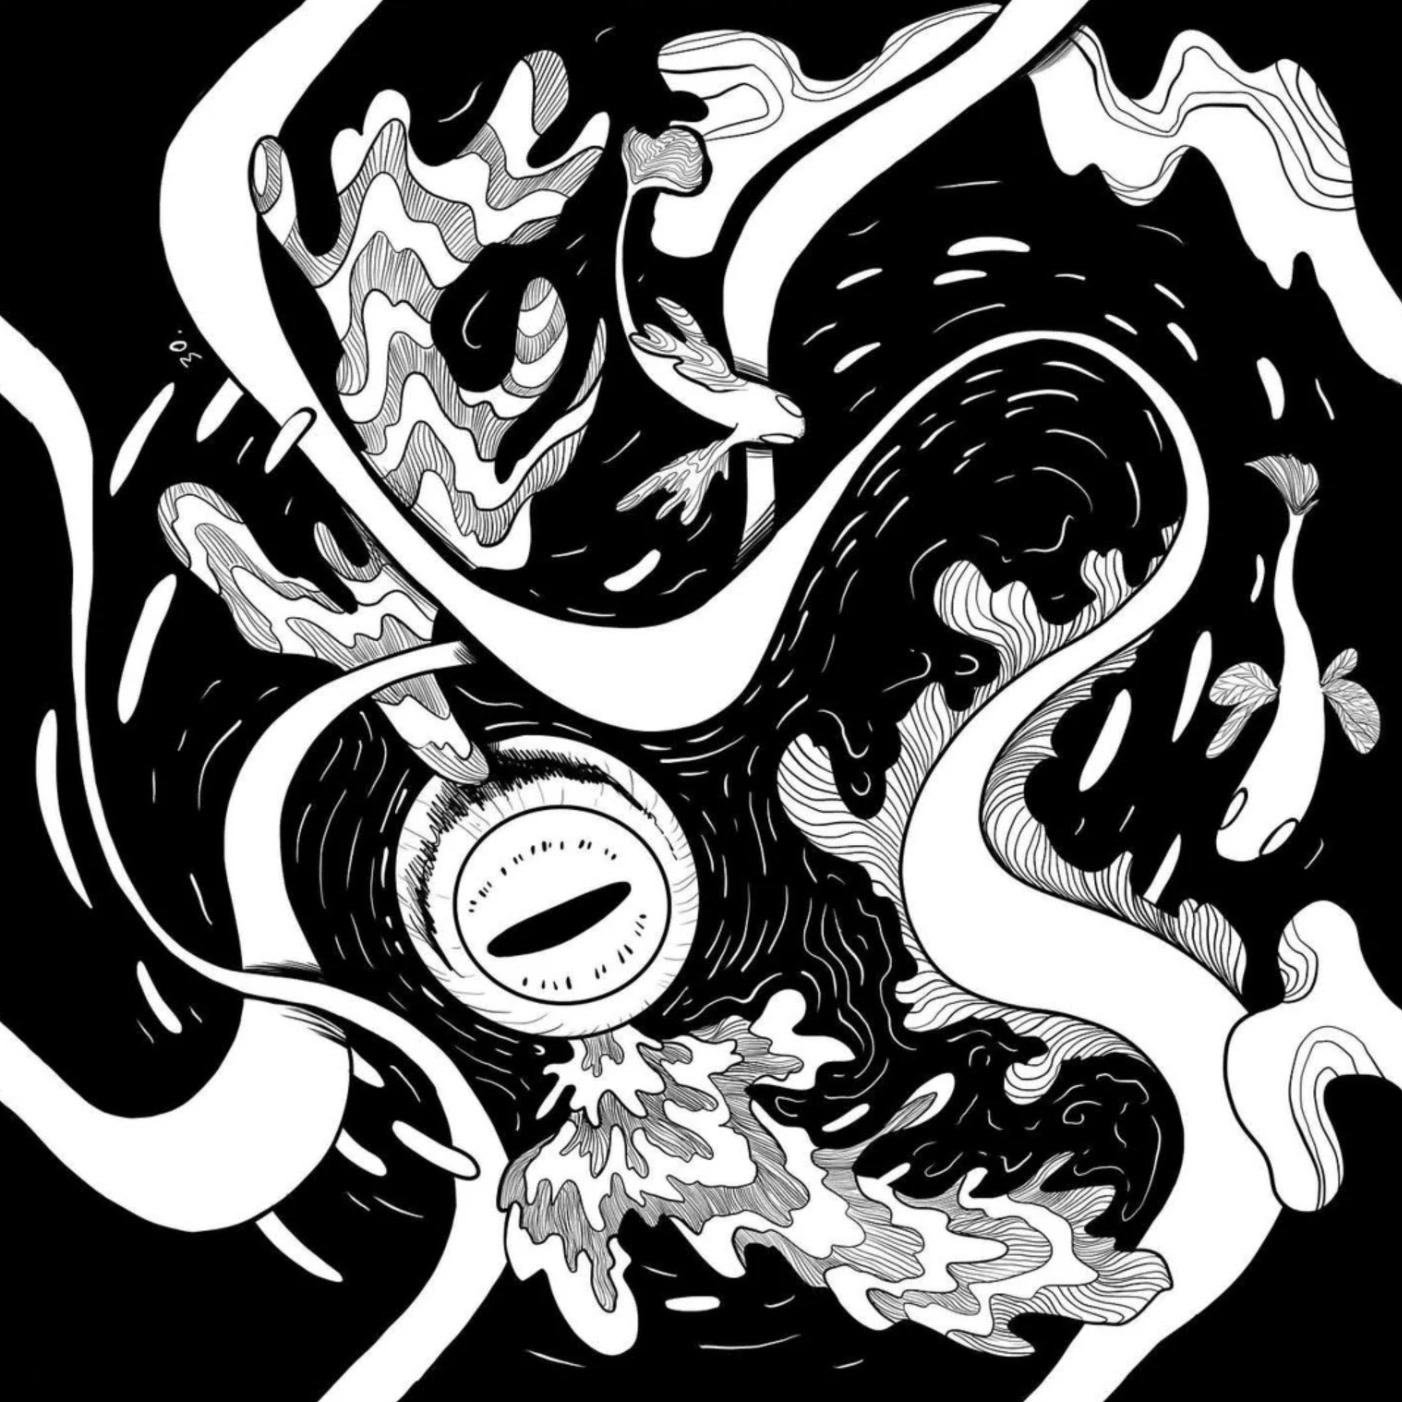
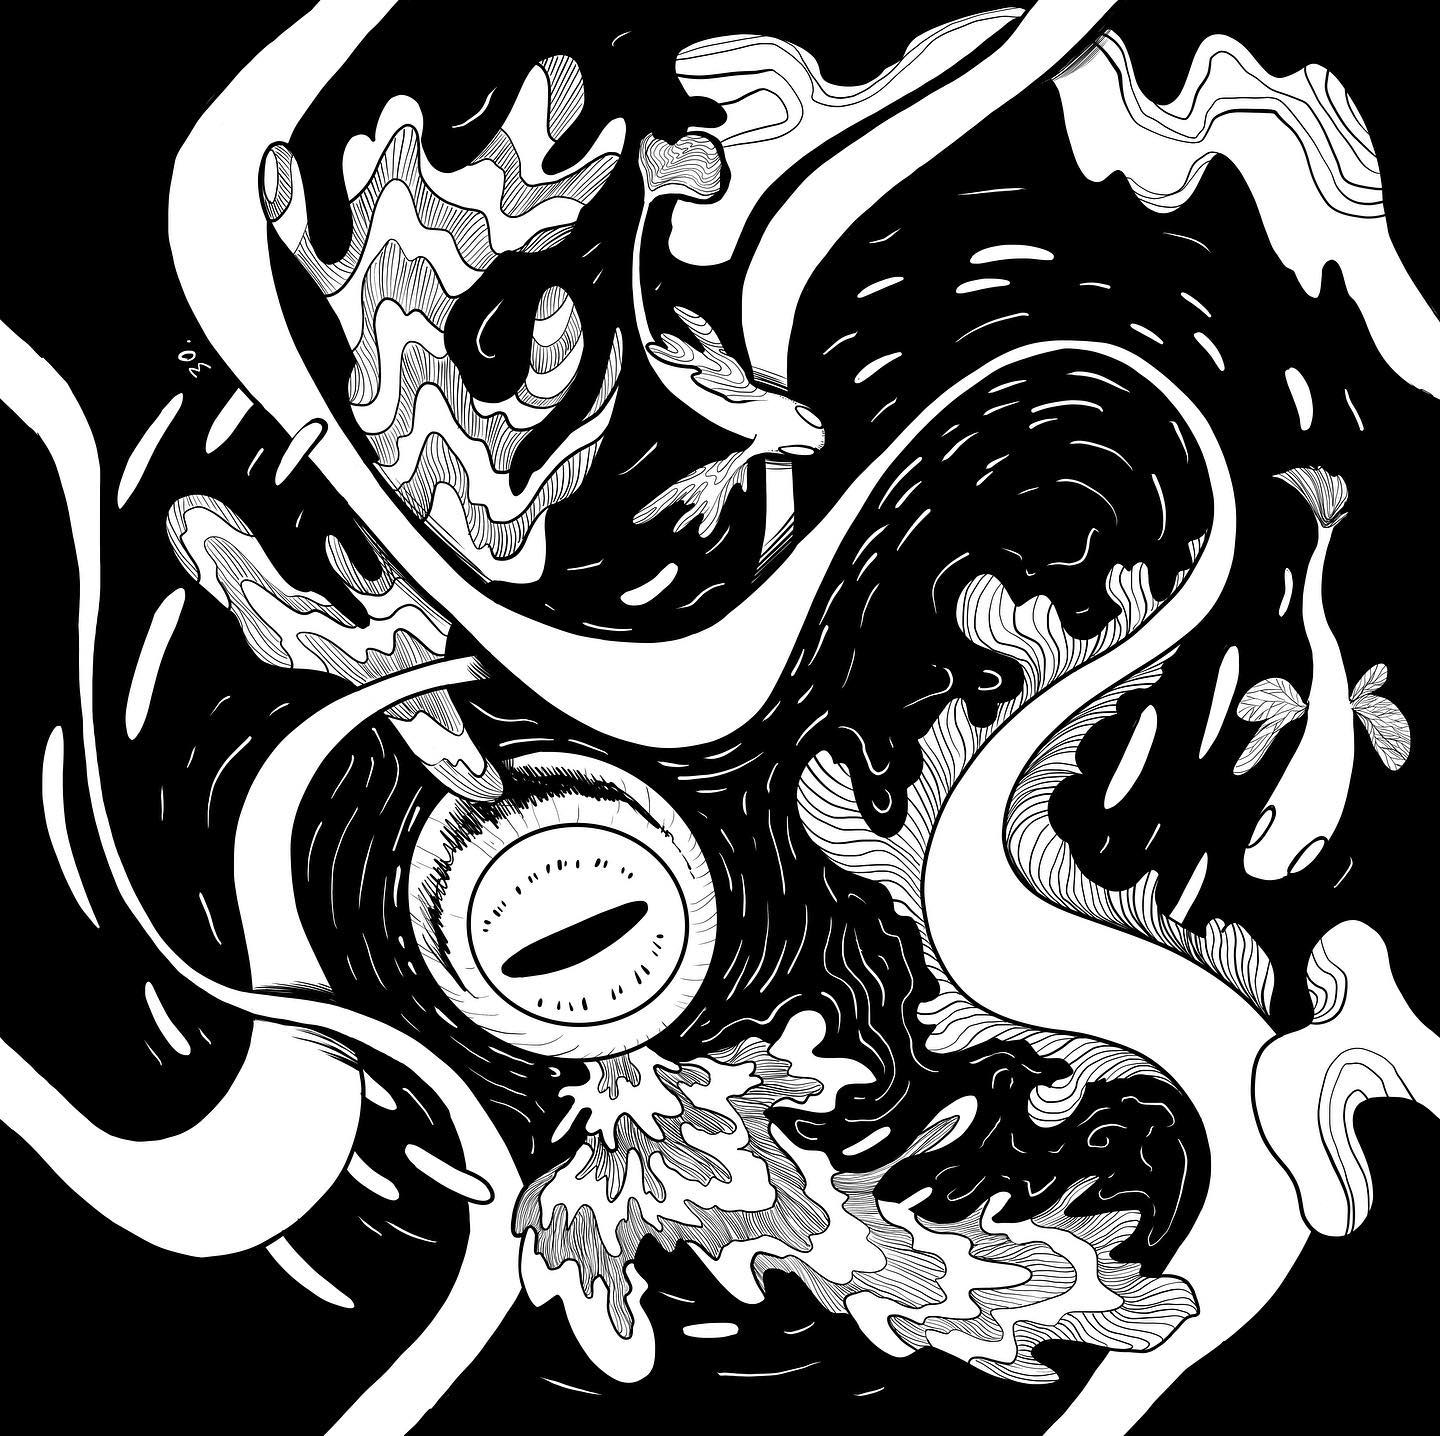
Manga version: all 31 Infinity Zine cards (Instagram originals, sharper folder copies kept), shown edge to edge

diff --git a/assets/content.js b/assets/content.js
@@ -692,7 +692,7 @@ export const lenses = {
         img: 'assets/img/table/infinity-zine-cards.jpg',
         tagline: '30 square cards, 5 × 5 in, in a sleeve or box · full layout 25 × 30 in',
         blurb: '30 connected original ink illustrations of my own creatures and worlds, as 30 interchangeable story cards. The cards connect on every side, so readers arrange them to create their own story. A full 5 × 6 layout alone has more than 10³² possible arrangements.',
-        sections: [{ h: 'Some of the cards, one by one', gallery: ['assets/img/table/infinity-01-ring.jpg', 'assets/img/table/infinity-09-swing.jpg', 'assets/img/table/infinity-12-dragon.jpg', 'assets/img/table/infinity-13-ash.jpg', 'assets/img/table/infinity-14-overgrown.jpg', 'assets/img/table/infinity-27-coat.jpg', 'assets/img/table/infinity-28-ride.jpg', 'assets/img/table/infinity-29-injured.jpg', 'assets/img/table/infinity-30-catch.jpg'] }] },
+        sections: [{ h: 'All 31 drawings, in order', text: 'They connect on every side: any arrangement joins up.', gallery: ['assets/img/table/infinity-01-ring.jpg', 'assets/img/table/infinity-02-mindless.jpg', 'assets/img/table/infinity-03-bait.jpg', 'assets/img/table/infinity-04-freeze.jpg', 'assets/img/table/infinity-05-build.jpg', 'assets/img/table/infinity-06-husky.jpg', 'assets/img/table/infinity-07-enchanted.jpg', 'assets/img/table/infinity-08-frail.jpg', 'assets/img/table/infinity-09-swing.jpg', 'assets/img/table/infinity-10-pattern.jpg', 'assets/img/table/infinity-11-snow.jpg', 'assets/img/table/infinity-12-dragon.jpg', 'assets/img/table/infinity-13-ash.jpg', 'assets/img/table/infinity-14-overgrown.jpg', 'assets/img/table/infinity-15-legend.jpg', 'assets/img/table/infinity-16-wild.jpg', 'assets/img/table/infinity-17-ornament.jpg', 'assets/img/table/infinity-18-misfit.jpg', 'assets/img/table/infinity-19-sling.jpg', 'assets/img/table/infinity-20-treat.jpg', 'assets/img/table/infinity-21-treasure.jpg', 'assets/img/table/infinity-22-ghost.jpg', 'assets/img/table/infinity-23-ancient.jpg', 'assets/img/table/infinity-24-dizzy.jpg', 'assets/img/table/infinity-25-tasty.jpg', 'assets/img/table/infinity-26-dark.jpg', 'assets/img/table/infinity-27-coat.jpg', 'assets/img/table/infinity-28-ride.jpg', 'assets/img/table/infinity-29-injured.jpg', 'assets/img/table/infinity-30-catch.jpg', 'assets/img/table/infinity-31-ripe.jpg'] }] },
       { id: 'loose-lines', page: 'table', title: 'Loose Lines', kind: 'sketchbook zines (3 volumes) · coming 2027', role: 'Artist', motif: '✎', fair: true,
         img: 'assets/img/table/loose-lines.jpg',
         tagline: 'Digest, 5.5 × 8.5 in, 16-24 pages each, cream paper',

diff --git a/assets/style.css b/assets/style.css
@@ -507,3 +507,7 @@ body.flow .sheet .sheet-motif.has-media { width: 120px; height: 96px; top: 20px;
 .page-logo.logo-light { display: none; }
 [data-theme="dark"] .page-logo.logo-dark { display: none; }
 [data-theme="dark"] .page-logo.logo-light { display: block; }
+/* The Infinity Zine: cards sit edge to edge, no gaps or frames, so the lines join up */
+.sheet .gallery:has(img[src*="/infinity-0"]) { gap: 0; grid-template-columns: repeat(auto-fill, minmax(150px, 1fr)); }
+.sheet .gallery :is(a, .g):has(img[src*="/infinity-"]) { border: 0; border-radius: 0; }
+.sheet .gallery :is(a, .g):has(img[src*="/infinity-"]):hover { box-shadow: 0 0 0 2px #ff9a2e, 6px 6px 0 #0b0a08; }
